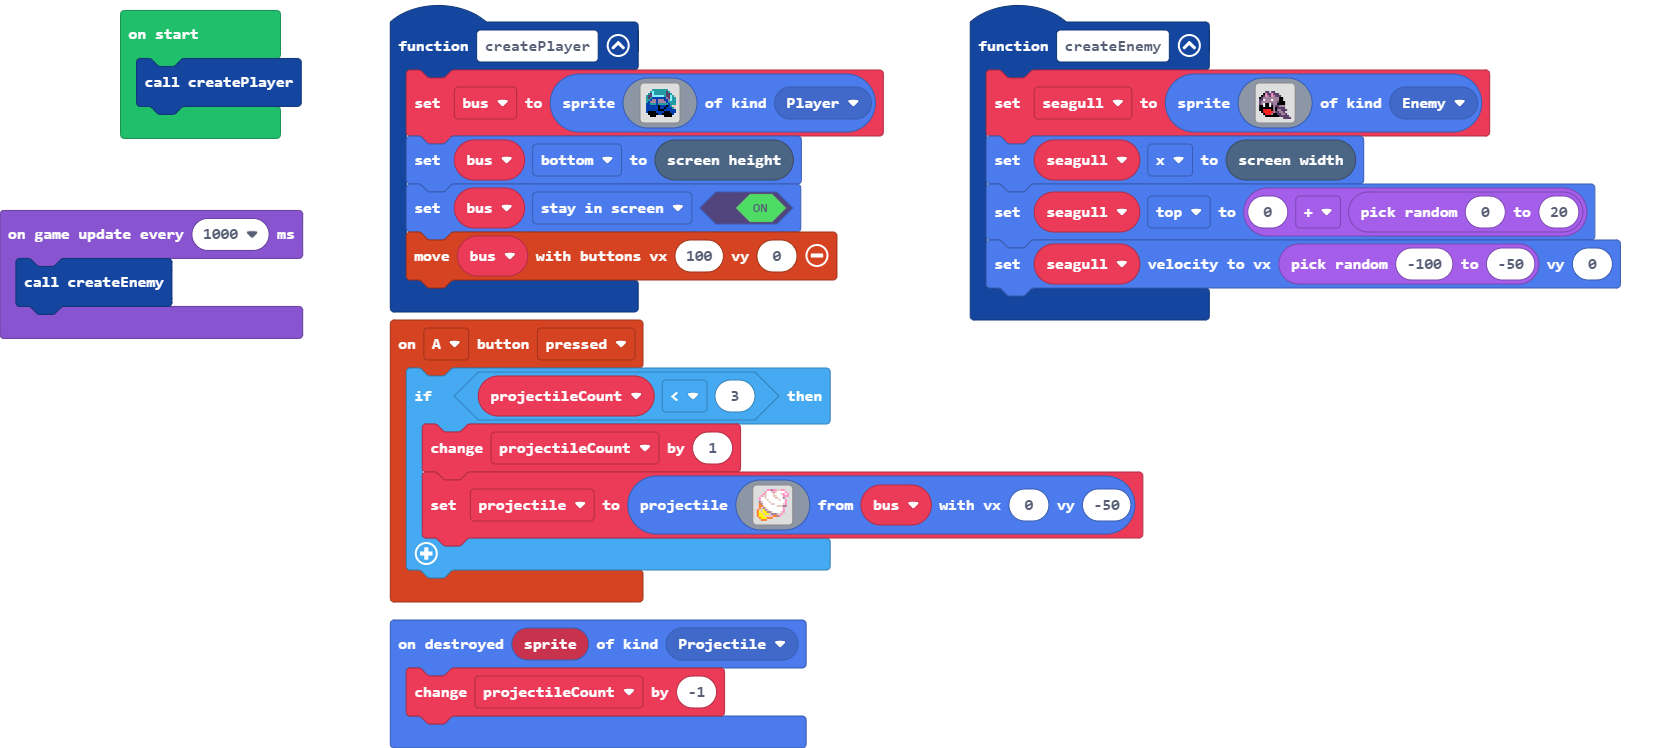
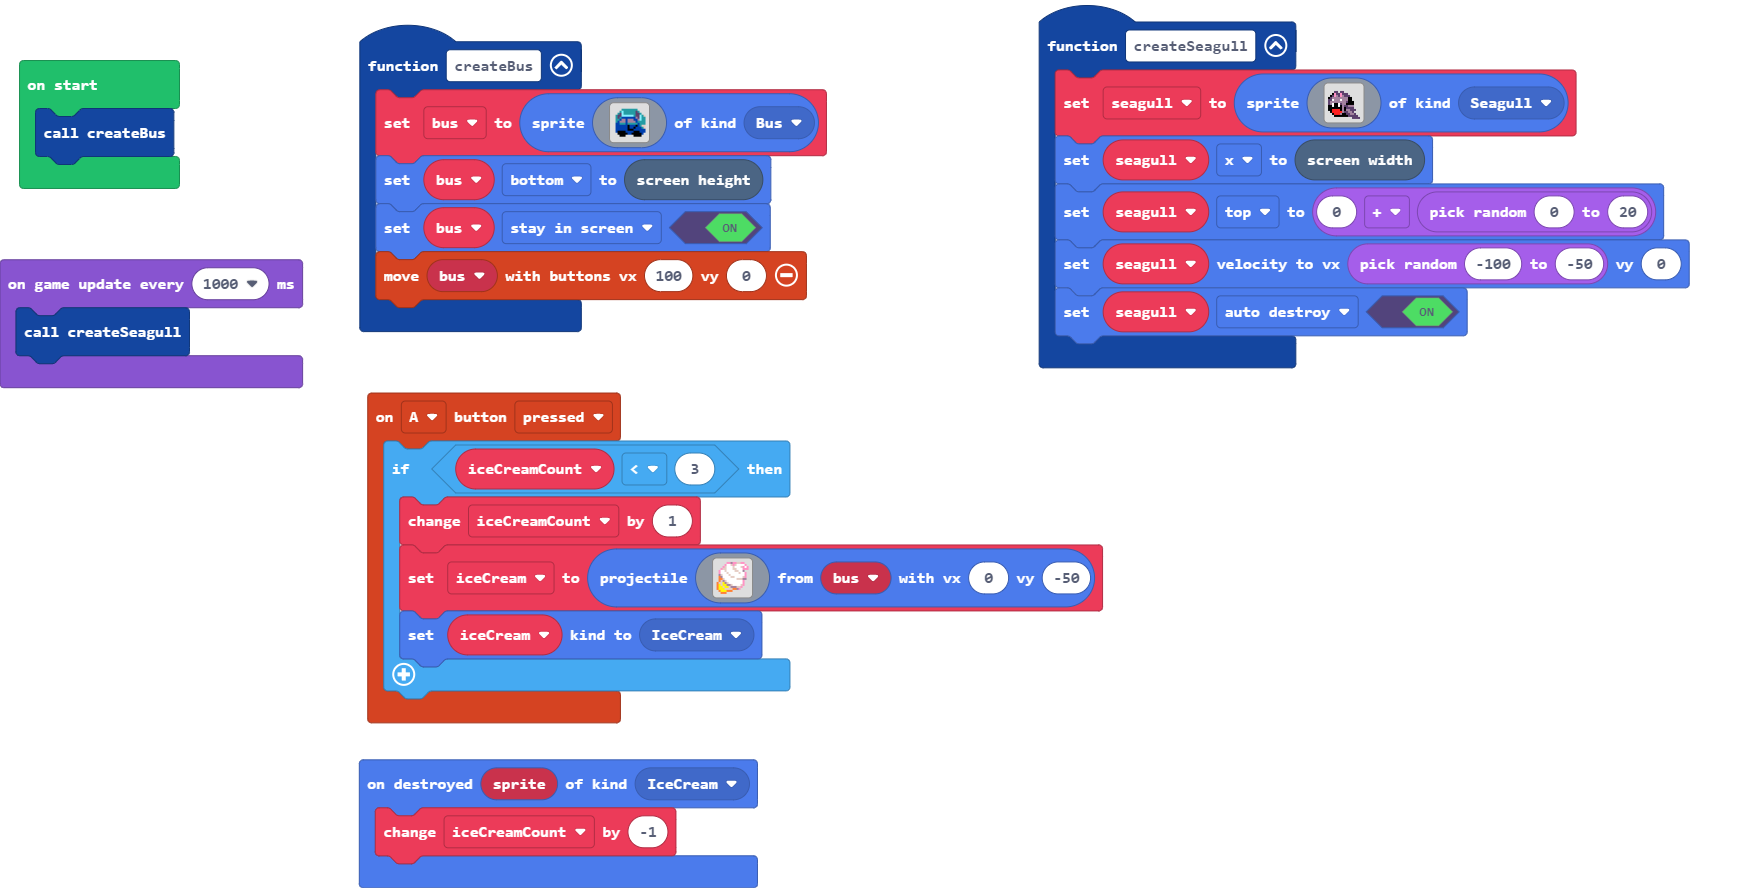
Make seagulls auto-destroy. Rename types.

diff --git a/main.ts b/main.ts
@@ -1,27 +1,12 @@
-controller.A.onEvent(ControllerButtonEvent.Pressed, function () {
-    if (projectileCount < 3) {
-        projectileCount += 1
-        projectile = sprites.createProjectileFromSprite(img`
-            . . . . . 3 3 b 3 3 d d 3 3 . . 
-            . . . . 3 1 1 d 3 d 1 1 1 1 3 . 
-            . . . 3 d 1 1 1 d 1 1 1 d 3 1 3 
-            . . 3 d d 1 1 1 d d 1 1 1 3 3 3 
-            . 3 1 1 d 1 1 1 1 d d 1 1 b . . 
-            . 3 1 1 1 d 1 1 1 1 1 d 1 1 3 . 
-            . b d 1 1 1 d 1 1 1 1 1 1 1 3 . 
-            . 4 b 1 1 1 1 d d 1 1 1 1 d 3 . 
-            . 4 4 d 1 1 1 1 1 1 d d d b b . 
-            . 4 d b d 1 1 1 1 1 1 1 1 3 . . 
-            4 d d 5 b d 1 1 1 1 1 1 1 3 . . 
-            4 5 d 5 5 b b d 1 1 1 1 d 3 . . 
-            4 5 5 d 5 5 d b b b d d 3 . . . 
-            4 5 5 5 d d d d 4 4 b 3 . . . . 
-            . 4 5 5 5 4 4 4 . . . . . . . . 
-            . . 4 4 4 . . . . . . . . . . . 
-            `, bus, 0, -50)
-    }
+namespace SpriteKind {
+    export const IceCream = SpriteKind.create()
+    export const Bus = SpriteKind.create()
+    export const Seagull = SpriteKind.create()
+}
+sprites.onDestroyed(SpriteKind.IceCream, function (sprite) {
+    iceCreamCount += -1
 })
-function createEnemy () {
+function createSeagull () {
     seagull = sprites.create(img`
         . . . . . . . . . . . . . . . . 
         . . . . . . . . . . . . . . . . 
@@ -39,12 +24,37 @@ function createEnemy () {
         . . f 2 2 2 b f f c c b b c . . 
         . . . f f f f f f f c c c c c . 
         . . . . . . . . . . . . c c c c 
-        `, SpriteKind.Enemy)
+        `, SpriteKind.Seagull)
     seagull.x = scene.screenWidth()
     seagull.top = 0 + randint(0, 20)
     seagull.setVelocity(randint(-100, -50), 0)
+    seagull.setFlag(SpriteFlag.AutoDestroy, true)
 }
-function createPlayer () {
+controller.A.onEvent(ControllerButtonEvent.Pressed, function () {
+    if (iceCreamCount < 3) {
+        iceCreamCount += 1
+        iceCream = sprites.createProjectileFromSprite(img`
+            . . . . . 3 3 b 3 3 d d 3 3 . . 
+            . . . . 3 1 1 d 3 d 1 1 1 1 3 . 
+            . . . 3 d 1 1 1 d 1 1 1 d 3 1 3 
+            . . 3 d d 1 1 1 d d 1 1 1 3 3 3 
+            . 3 1 1 d 1 1 1 1 d d 1 1 b . . 
+            . 3 1 1 1 d 1 1 1 1 1 d 1 1 3 . 
+            . b d 1 1 1 d 1 1 1 1 1 1 1 3 . 
+            . 4 b 1 1 1 1 d d 1 1 1 1 d 3 . 
+            . 4 4 d 1 1 1 1 1 1 d d d b b . 
+            . 4 d b d 1 1 1 1 1 1 1 1 3 . . 
+            4 d d 5 b d 1 1 1 1 1 1 1 3 . . 
+            4 5 d 5 5 b b d 1 1 1 1 d 3 . . 
+            4 5 5 d 5 5 d b b b d d 3 . . . 
+            4 5 5 5 d d d d 4 4 b 3 . . . . 
+            . 4 5 5 5 4 4 4 . . . . . . . . 
+            . . 4 4 4 . . . . . . . . . . . 
+            `, bus, 0, -50)
+        iceCream.setKind(SpriteKind.IceCream)
+    }
+})
+function createBus () {
     bus = sprites.create(img`
         . . . . . . . . . . . . . . . . 
         . . . . 6 6 6 6 6 6 6 6 . . . . 
@@ -62,19 +72,16 @@ function createPlayer () {
         . . f f f f f 8 8 f f f f f 8 . 
         . . . f f f . . . . f f f f . . 
         . . . . . . . . . . . . . . . . 
-        `, SpriteKind.Player)
+        `, SpriteKind.Bus)
     bus.bottom = scene.screenHeight()
     bus.setFlag(SpriteFlag.StayInScreen, true)
     controller.moveSprite(bus, 100, 0)
 }
-sprites.onDestroyed(SpriteKind.Projectile, function (sprite) {
-    projectileCount += -1
-})
-let seagull: Sprite = null
 let bus: Sprite = null
-let projectile: Sprite = null
-let projectileCount = 0
-createPlayer()
+let iceCream: Sprite = null
+let seagull: Sprite = null
+let iceCreamCount = 0
+createBus()
 game.onUpdateInterval(1000, function () {
-    createEnemy()
+    createSeagull()
 })

diff --git a/tilemap.g.ts b/tilemap.g.ts
@@ -1,0 +1,7 @@
+// Auto-generated code. Do not edit.
+namespace myTiles {
+    //% fixedInstance jres blockIdentity=images._tile
+    export const transparency16 = image.ofBuffer(hex``);
+
+}
+// Auto-generated code. Do not edit.
